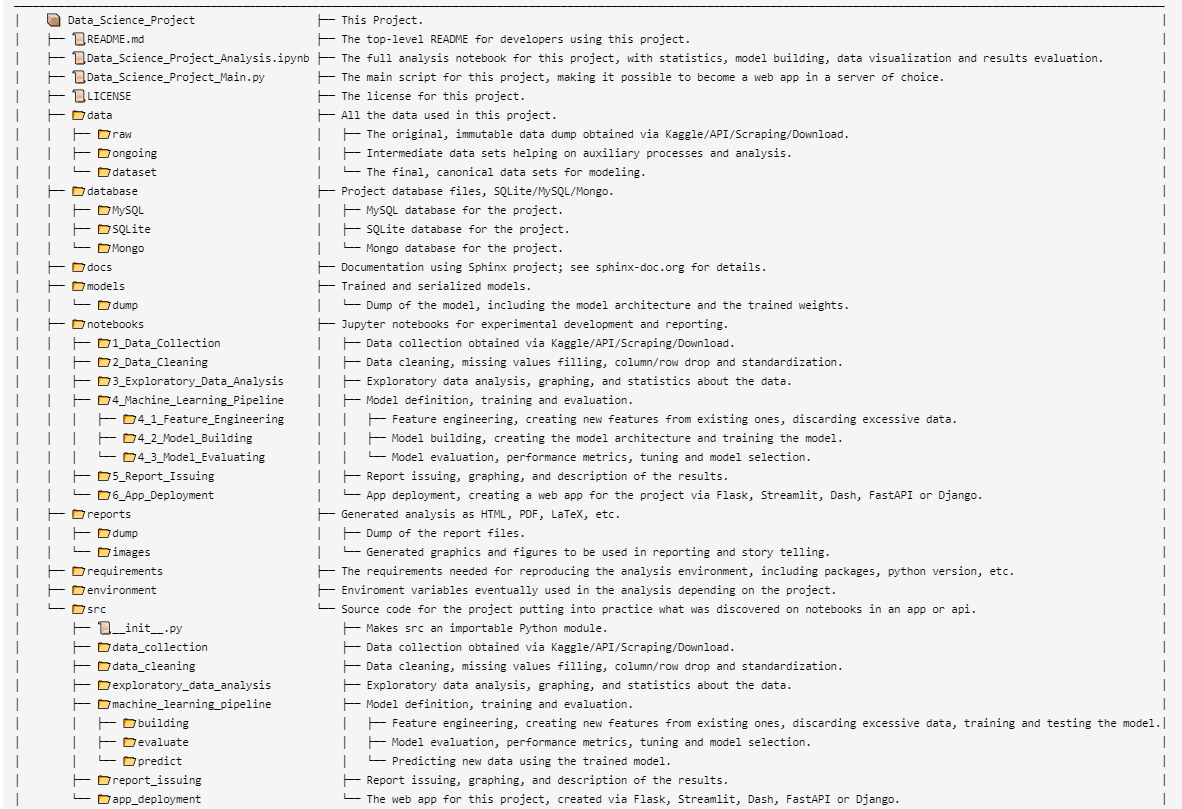
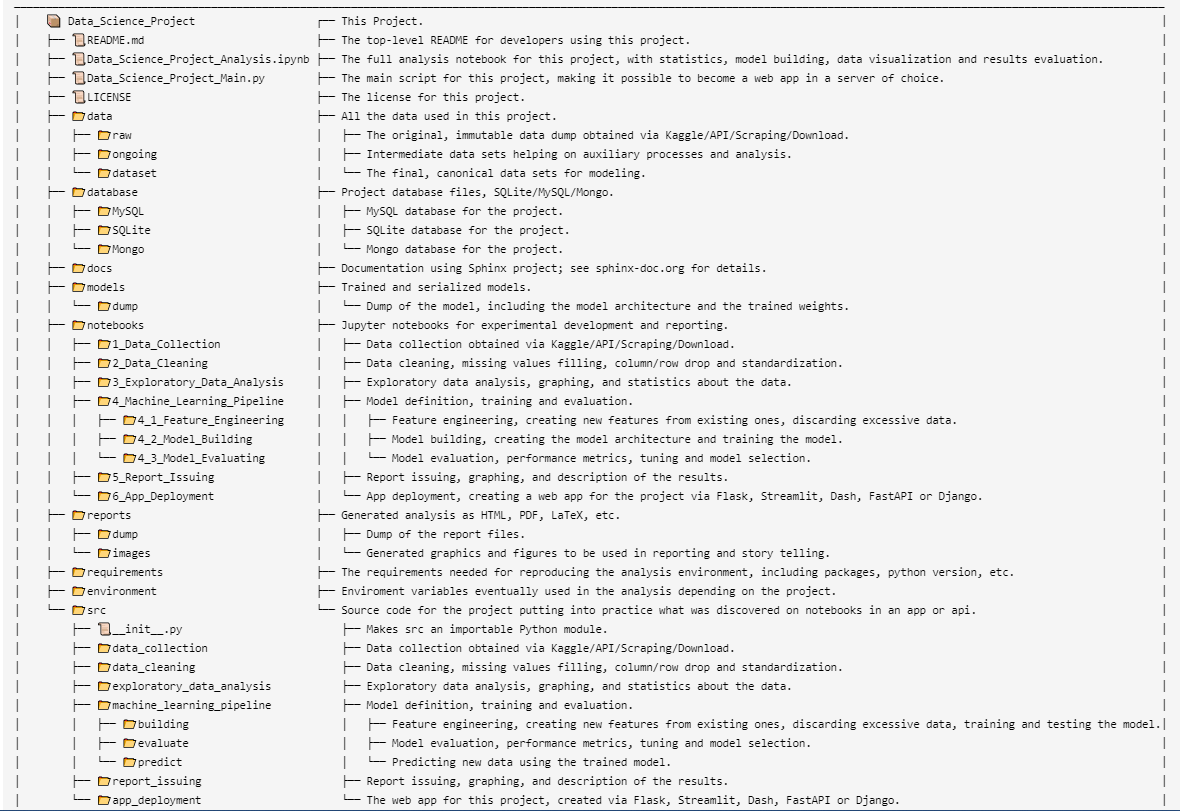
File Tree changes

Changed region(s): [[0.0, 0.0, 1.0, 1.0]]

diff --git a/{{ cookiecutter.project_directory.replace(' ', '_')+'_Analysis' }}/docs/file_tree_detailed.md b/{{ cookiecutter.project_directory.replace(' ', '_')+'_Analysis' }}/docs/file_tree_detailed.md
@@ -1,6 +1,6 @@
 ```
 _____________________________________________________________________________________________________________________________________________________________________________________
-│    📦 Data_Science_Project                   ├── This Project.                                                                                                                    |
+│    📦 Data_Science_Project                   ┌── This Project.                                                                                                                    |
 │    ├── 📜README.md                           ├── The top-level README for developers using this project.                                                                          |
 │    ├── 📜Data_Science_Project_Analysis.ipynb ├── The full analysis notebook for this project, with statistics, model building, data visualization and results evaluation.         |
 │    ├── 📜Data_Science_Project_Main.py        ├── The main script for this project, making it possible to become a web app in a server of choice.                                  |
